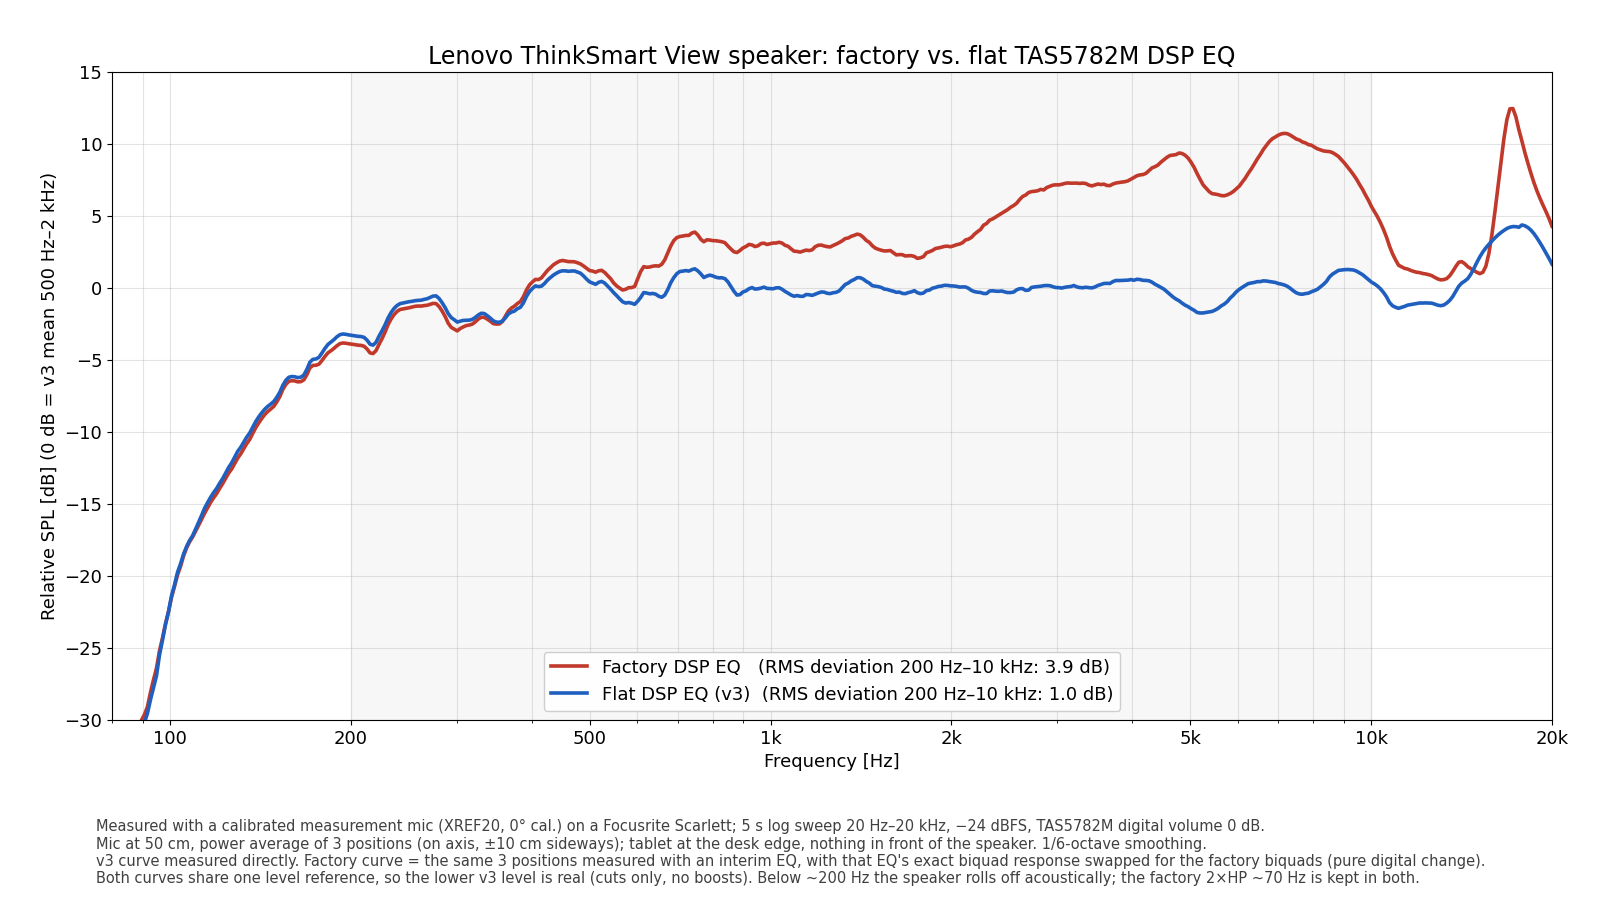
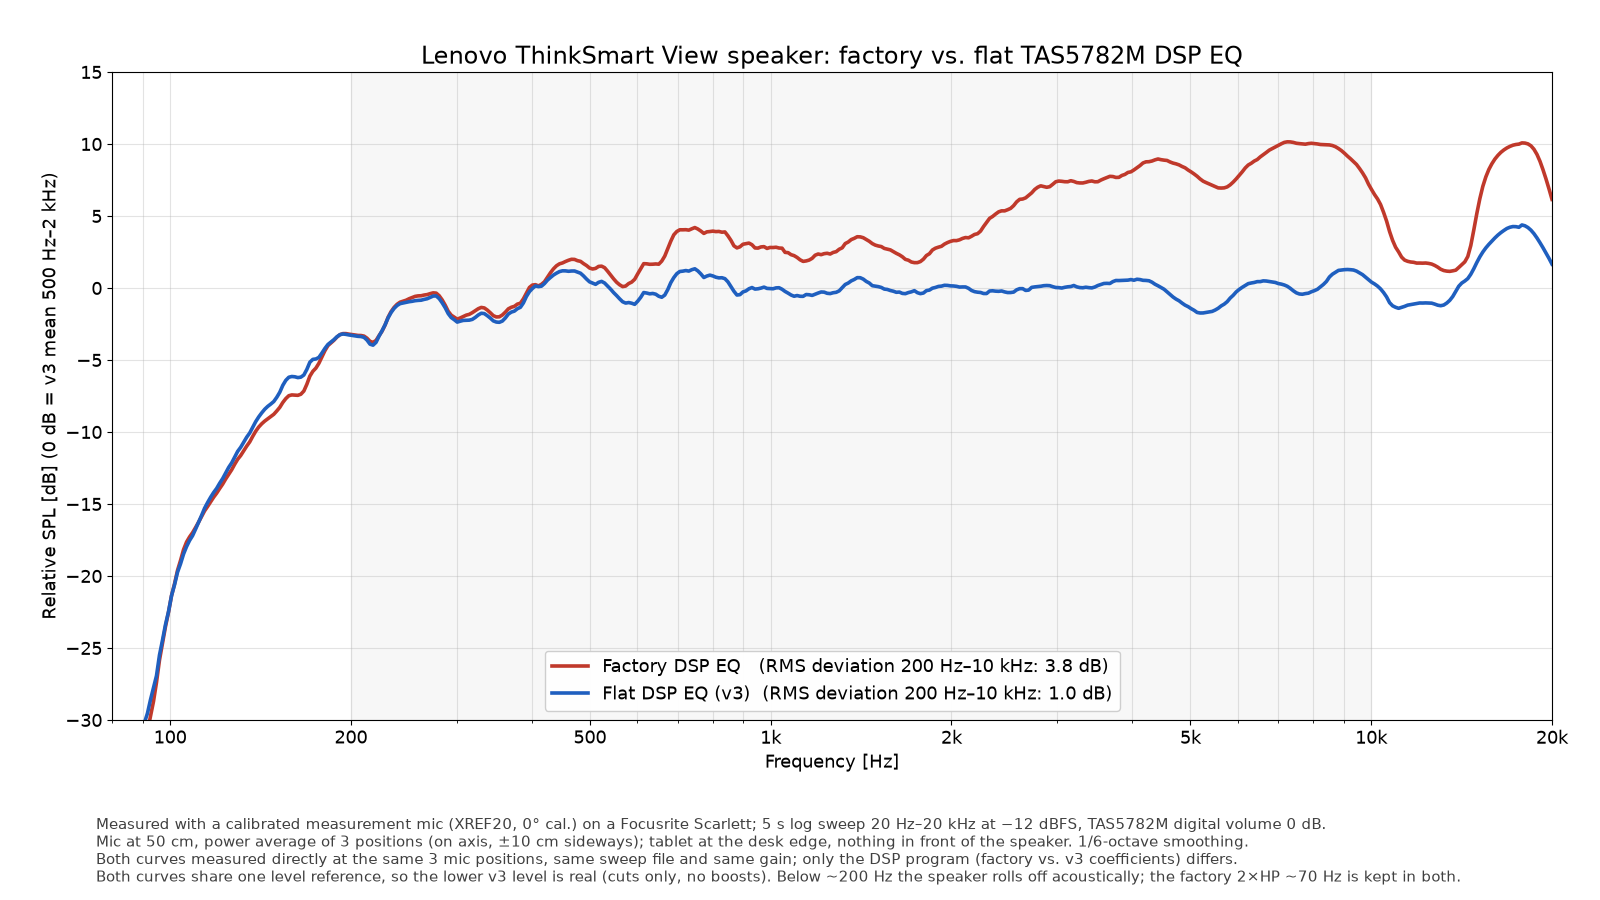
docs: measured factory EQ curve at the desk edge

diff --git a/docs/audio.md b/docs/audio.md
@@ -30,8 +30,8 @@ layout.
 
 The vendor DSP program has four EQ biquads (book 0x8c, page 0x16, registers
 0x1c, 0x30, 0x44, 0x58) that tune the speaker for speech: measured against
-the flat version below, it is 7-9 dB louder from 3 to 5 kHz and 10 dB at
-7 kHz. Two high-pass biquads (0x15/0x6c and
+the flat version below, it is about 2.5 dB louder at 1 kHz, 7 dB at 3 kHz
+and 9 dB at 5-7 kHz. Two high-pass biquads (0x15/0x6c and
 0x16/0x08, about 70 Hz) protect the speaker. We replaced the four EQ biquads
 with cuts computed from measurements, and left the high-pass biquads as they
 are:
@@ -47,12 +47,8 @@ are:
 
 Measured with a calibrated XREF20 microphone at 50 cm, averaged over three
 positions, tablet at the desk edge. The deviation from 200 Hz to 10 kHz drops
-from 3.9 dB RMS to 1.0 dB. We measured the factory EQ first, with
-the tablet on the desk. A reflection from the desk then made a dip at
-4-5 kHz, so the final measurements were taken with the tablet at the desk
-edge. For the chart, the factory curve at the desk edge is derived from the
-same three positions measured with an earlier flat EQ, with those biquads
-swapped for the factory ones. The EQ is purely digital, so this is exact. Below about 200 Hz the
+from 3.8 dB RMS to 1.0 dB. Both curves are measured directly, at the same
+positions with the same sweep. Below about 200 Hz the
 speaker rolls off acoustically. The EQ has cuts only, so the flat version is quieter: about
 3 dB in the speech band.
 
